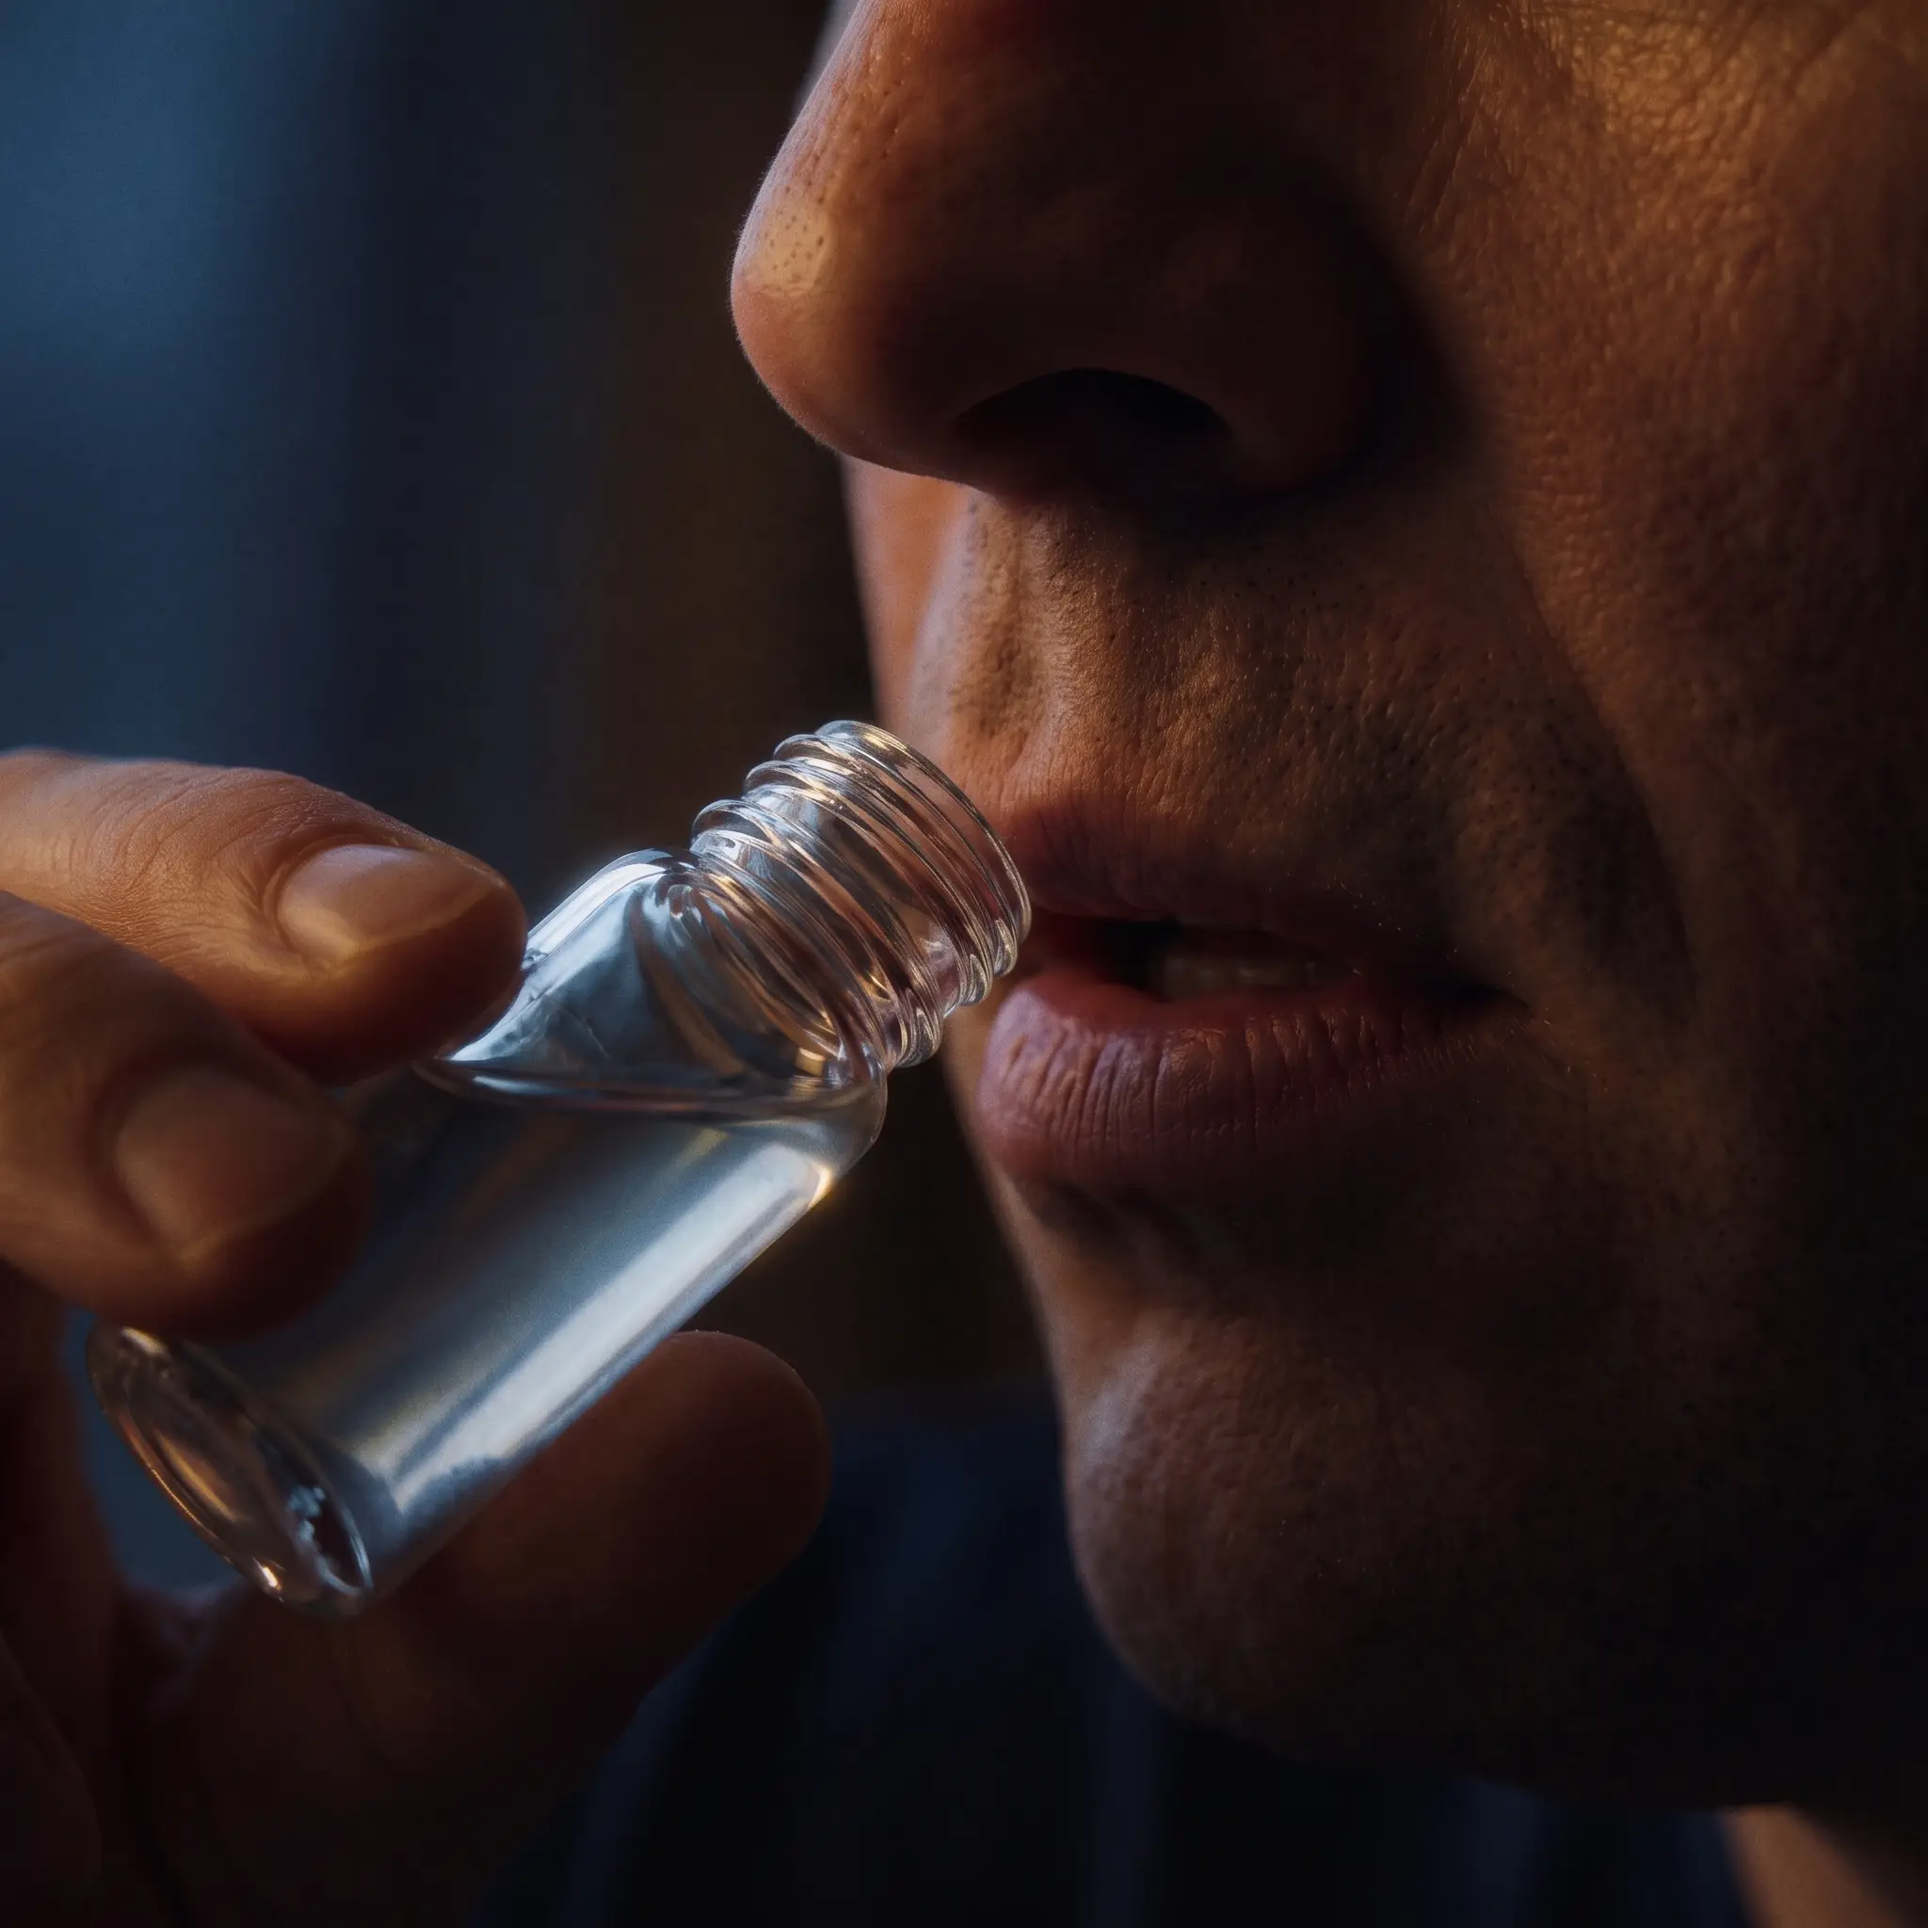
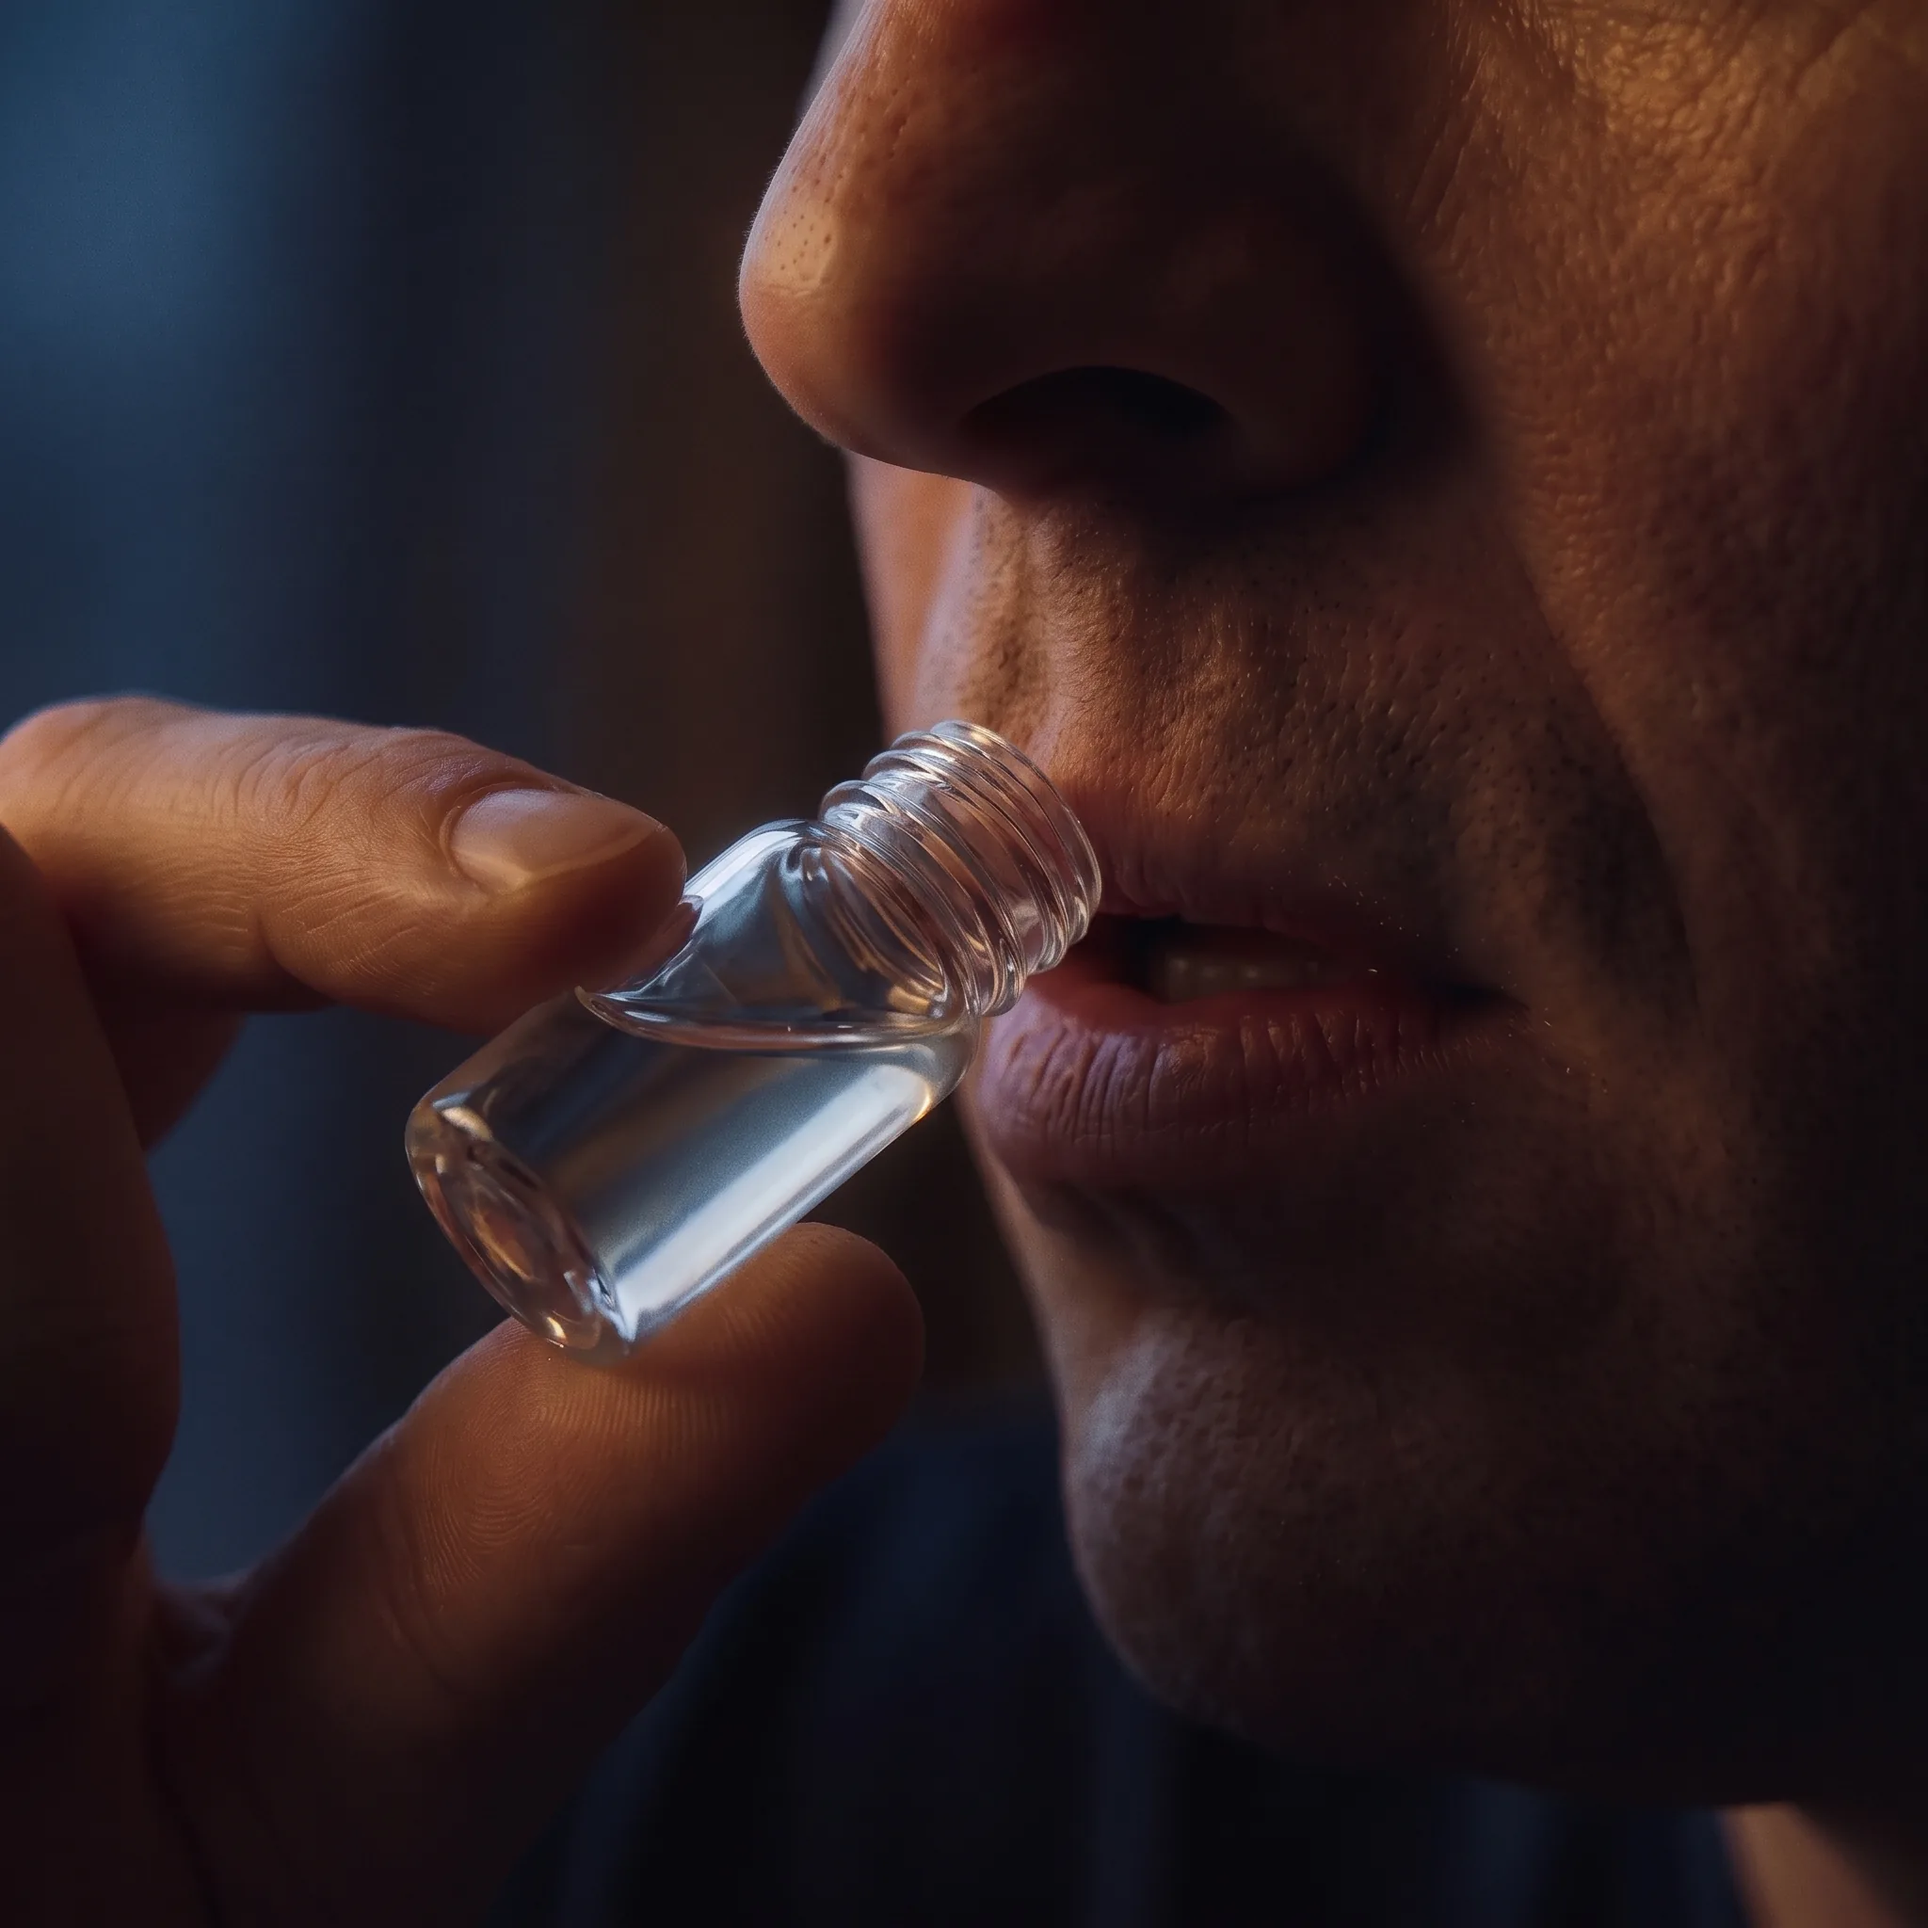
fix(ed-treatment-v2): show the vial at true scale
The real product is a 2 mL vial about 35 mm tall. The Engineered macro
read as a 10 mL bottle and the console vials were key-length, roughly
twice life size. All three stills are regenerated from the client's
reference photo: the macro vial is shorter than the thumb's top joint,
and the vial beside the keys is about a third of a key. Slot
descriptions in content.ts now state the true scale.

diff --git a/app/components/modules/ed-treatment-v2/content.ts b/app/components/modules/ed-treatment-v2/content.ts
@@ -336,7 +336,7 @@ export const benefits = {
       media: {
         label: "Benefit visual · 1:1 · liquid vial macro",
         asset:
-          "Macro: two fingertips lifting a small clear single-dose vial toward parted lips, nose and mouth only, dusk light.",
+          "Macro: a tiny 2 mL clear single-dose vial (35 mm tall, true scale: shorter than the top joint of the thumb) pinched between thumb and index finger, lifted toward parted lips, nose and mouth only, dusk light.",
         aspect: "1 / 1",
         tone: 1,
         src: "/images/ed-treatment-v2/benefit-vial.webp",
@@ -425,7 +425,7 @@ export const delivered = {
     label:
       "Delivered background · 16:9 · InstaRx box open on a hallway console at night",
     asset:
-      "The black InstaRx presentation box, lid open on its five vials, on a dark wooden hallway console; one vial standing beside the house keys; one warm tungsten lamp from off frame, deep navy shadow elsewhere; no people, no pill bottles, no other text. Wide: box on the right third, the left two thirds in shadow for the copy. Mobile: 3:4, box in the upper half, lower half empty for the panel.",
+      "The black InstaRx presentation box, lid open on its five tiny 2 mL vials in a foam insert, on a dark wooden hallway console; one tiny 2 mL vial (35 mm, true scale: about half a door key) standing beside the house keys; one warm tungsten lamp from off frame, deep navy shadow elsewhere; no people, no pill bottles, no other text. Wide: box on the right third, the left two thirds in shadow for the copy. Mobile: 3:4, box in the upper half, lower half empty for the panel.",
     aspect: "16 / 9",
     aspectMobile: "3 / 4",
     tone: 0,
